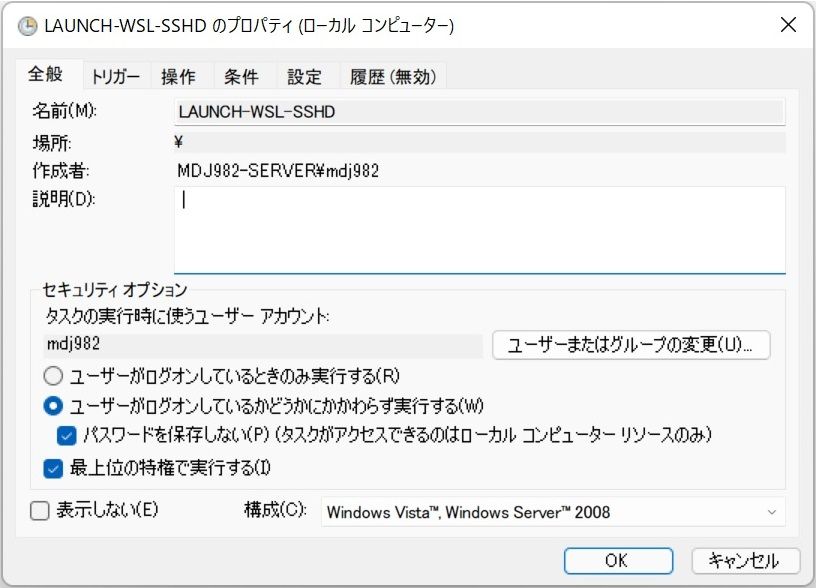
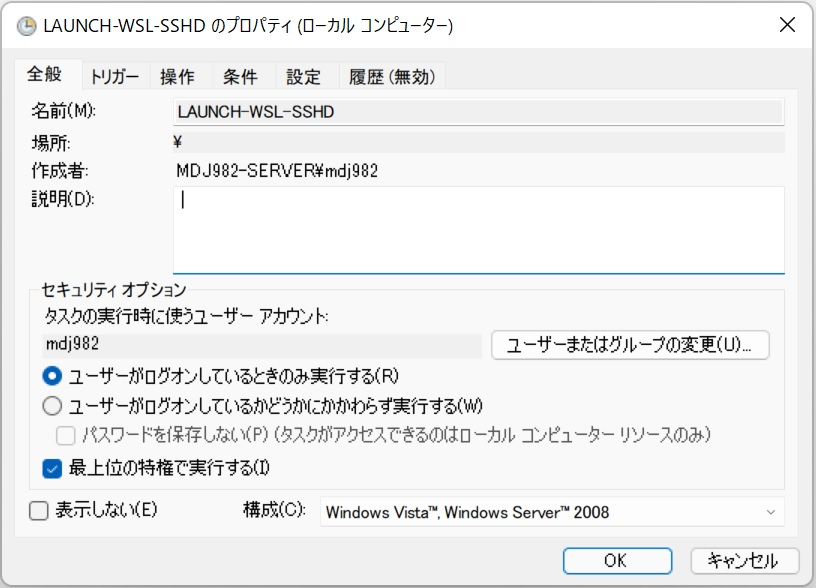
change to safer WSL launch

diff --git a/common/readme.md b/common/readme.md
@@ -198,12 +198,20 @@ $ sudo hwclock -D --systohc --localtime
   - Open firewall on port 2222
   - forward to port 22 on wsl from listen port 2222 for any listen address
 
+- Prepare a launch.vbs script as follows
+  ````ps1
+  command = "C:\Windows\System32\WindowsPowerShell\v1.0\powershell.exe  -ExecutionPolicy Bypass C:\Users\mdj982\Desktop\Workspace\miscellaneous\restart_and_forward_wsl_sshd.ps1"
+  set shell = CreateObject("WScript.Shell")
+  shell.Run command,0
+  ````
+  - Run the above *.ps1 script in background
+
 - Launch APP "Task Scheduler" and let the script run after each Windows reboot
   <img src="figure/figure_automatically_launch_wsl_sshd_1.jpg" width="400px" max-width="100%">
   <img src="figure/figure_automatically_launch_wsl_sshd_2.jpg" width="400px" max-width="100%">
   <img src="figure/figure_automatically_launch_wsl_sshd_3.jpg" width="400px" max-width="100%">
-  - `C:\Windows\System32\WindowsPowerShell\v1.0\powershell.exe`
-  - `-ExecutionPolicy Bypass $PATH_OF_THE_SCRIPT`
-  - `C:\Users\mdj982\Desktop\Workspace`: Run on any safe directory
+  - (path to `launch.vbs`)
+  - (blank)
+  - (Any safe directory)
 
 - Reboot Windows and now you can connect to `<Windows IP address>:2222` without logging in windows.
